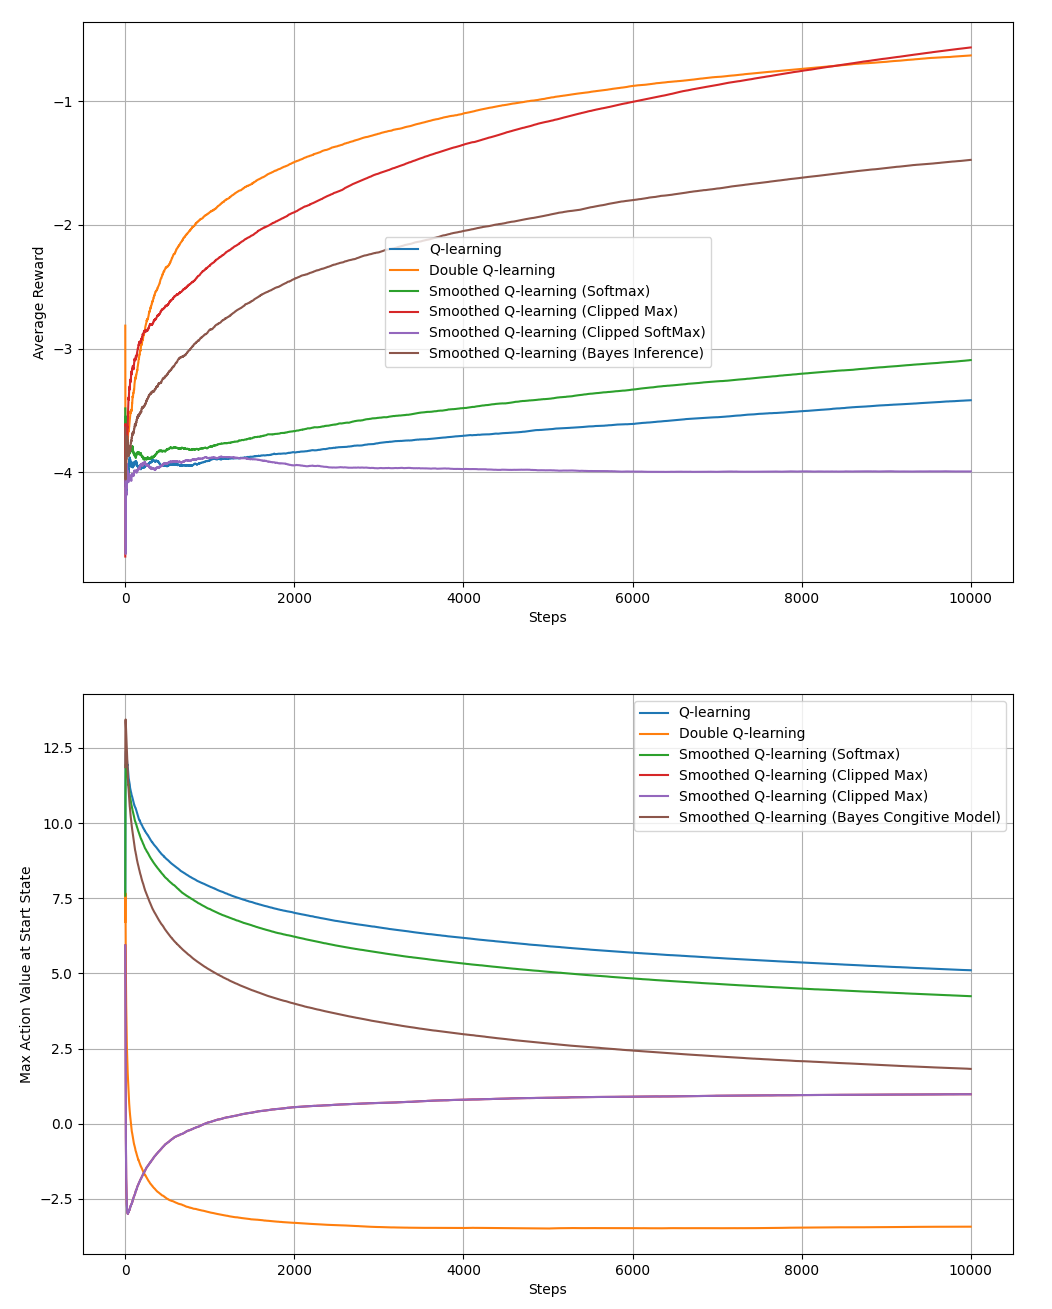
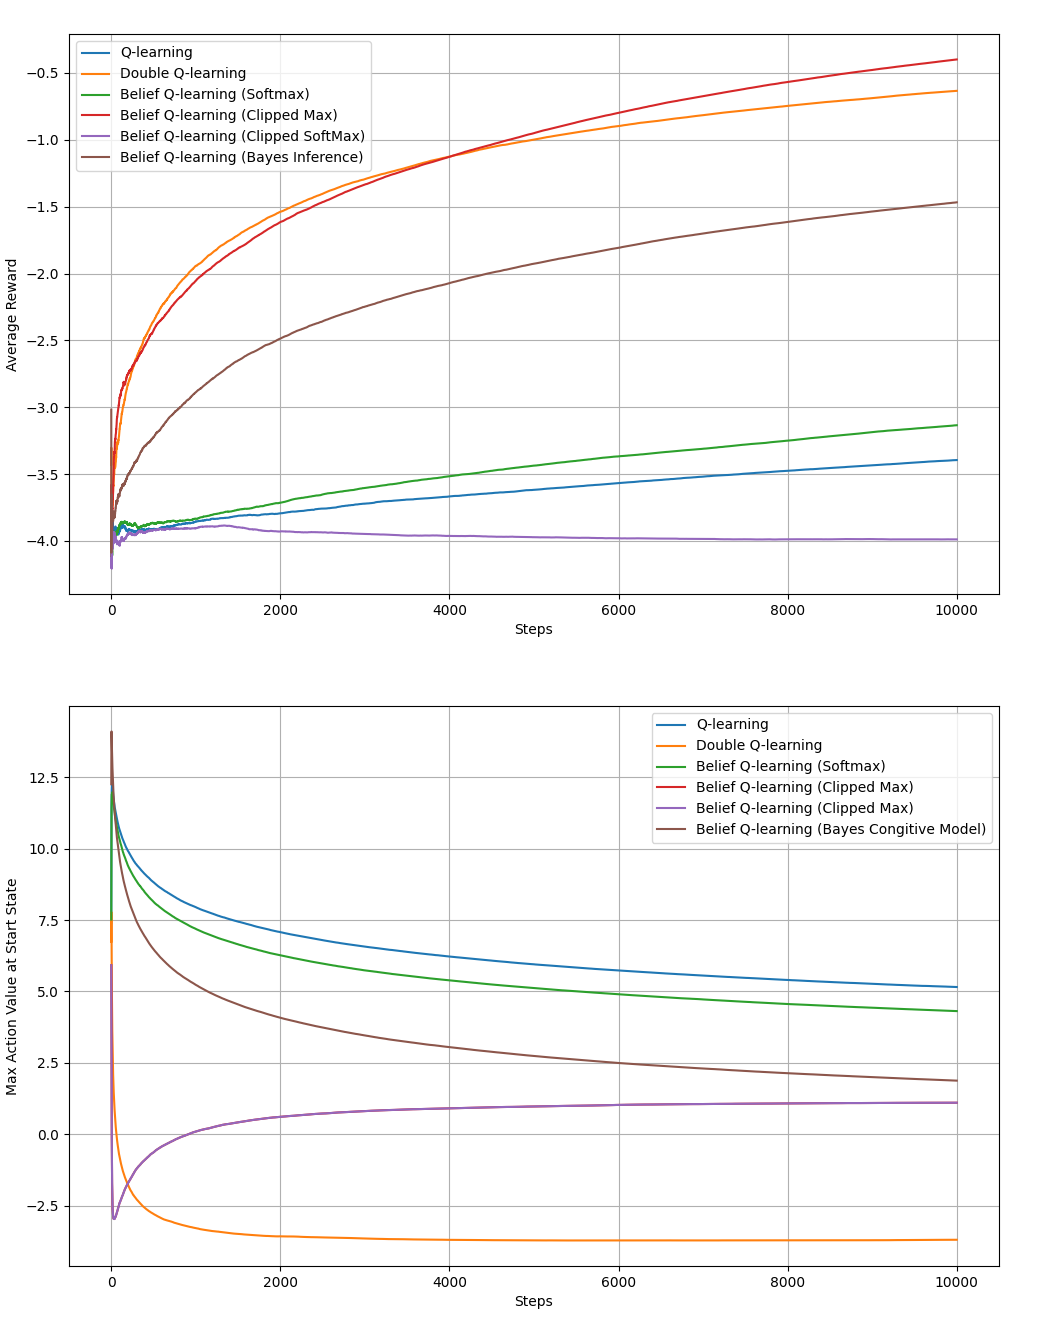
update

diff --git a/DQN_Exercise1/Belief_DQN.py b/DQN_Exercise1/Belief_DQN.py
@@ -7,10 +7,13 @@ import torch
 import torch.nn.functional as F
 import matplotlib.pyplot as plt
 import rl_utils
-from Qattention import MLPAttention
+# from Qattention import MLPAttention
 from BeliefQNetwork import BeliefQNetwork
+
+
 class ReplayBuffer:
     ''' 经验回放池 '''
+
     def __init__(self, capacity):
         self.buffer = collections.deque(maxlen=capacity)  # 队列,先进先出
 
@@ -24,9 +27,11 @@ class ReplayBuffer:
 
     def size(self):  # 目前buffer中数据的数量
         return len(self.buffer)
-    
+
+
 class Qnet(torch.nn.Module):
     ''' 只有一层隐藏层的Q网络 '''
+
     def __init__(self, state_dim, hidden_dim, action_dim):
         super(Qnet, self).__init__()
         self.fc1 = torch.nn.Linear(state_dim, hidden_dim)
@@ -35,12 +40,28 @@ class Qnet(torch.nn.Module):
     def forward(self, x):
         x = F.relu(self.fc1(x))  # 隐藏层使用ReLU激活函数
         return self.fc2(x)
-    
+
+
 class DQN:
     ''' DQN算法 '''
+
     def __init__(self, state_dim, hidden_dim, action_dim, learning_rate, gamma,
                  epsilon, target_update, device):
+
         self.action_dim = action_dim
+        self.device = device
+        self.gamma = gamma
+        self.epsilon = epsilon
+        self.target_update = target_update
+        self.count = 0
+
+        # self.q_net = BeliefQNetwork(state_dim, action_dim, hidden_dim).to(device)
+        # self.target_q_net = BeliefQNetwork(state_dim, action_dim, hidden_dim).to(device)
+
+        # self.optimizer = torch.optim.Adam(self.q_net.parameters(), lr=learning_rate)
+
+        # self.action_dim = action_dim
+
         self.q_net = Qnet(state_dim, hidden_dim,
                           self.action_dim).to(device)  # Q网络
         # 目标网络
@@ -49,14 +70,16 @@ class DQN:
         # 使用Adam优化器
         self.optimizer = torch.optim.Adam(self.q_net.parameters(),
                                           lr=learning_rate)
-        self.gamma = gamma  # 折扣因子
-        self.epsilon = epsilon  # epsilon-贪婪策略
-        self.target_update = target_update  # 目标网络更新频率
-        self.count = 0  # 计数器,记录更新次数
-        self.device = device
-        self.qattention = MLPAttention(state_dim, action_dim).to(self.device)
+
+        # self.gamma = gamma  # 折扣因子
+        # self.epsilon = epsilon  # epsilon-贪婪策略
+        # self.target_update = target_update  # 目标网络更新频率
+        # self.count = 0  # 计数器,记录更新次数
+        # self.device = device
+
+        self.qattention = BeliefQNetwork(state_dim, action_dim).to(self.device)
         self.qoptim = torch.optim.Adam(self.qattention.parameters(),
-                                          lr=0.0005)
+                                       lr=0.0005)
 
     def take_action(self, state):  # epsilon-贪婪策略采取动作
         if np.random.random() < self.epsilon:
@@ -85,7 +108,7 @@ class DQN:
         #     -1, 1)
         # q_targets = rewards + self.gamma * max_next_q_values * (1 - dones
         #                                                         )  # TD误差目标
-        
+
         average_next_q_value = self.qattention(next_states, q_values)[1] * next_q_values
         q_targets = rewards + self.gamma * torch.sum(average_next_q_value) * (1 - dones)
         dqn_loss = torch.mean(F.mse_loss(q_values, q_targets))  # 均方误差损失函数
@@ -99,7 +122,8 @@ class DQN:
             self.target_q_net.load_state_dict(
                 self.q_net.state_dict())  # 更新目标网络
         self.count += 1
-        
+
+
 lr = 2e-3
 num_episodes = 500
 hidden_dim = 128
@@ -109,7 +133,7 @@ target_update = 10
 buffer_size = 10000
 minimal_size = 500
 batch_size = 64
-device = torch.device("cuda") if torch.cuda.is_available() else torch.device(
+device = torch.device("mps") if torch.cuda.is_available() else torch.device(
     "cpu")
 
 env_name = 'CartPole-v0'
@@ -152,9 +176,9 @@ for i in range(2000):
             if (i_episode + 1) % 10 == 0:
                 pbar.set_postfix({
                     'episode':
-                    '%d' % (num_episodes / 10 * i + i_episode + 1),
+                        '%d' % (num_episodes / 10 * i + i_episode + 1),
                     'return':
-                    '%.3f' % np.mean(return_list[-10:])
+                        '%.3f' % np.mean(return_list[-10:])
                 })
             pbar.update(1)
 
@@ -162,12 +186,12 @@ episodes_list = list(range(len(return_list)))
 plt.plot(episodes_list, return_list)
 plt.xlabel('Episodes')
 plt.ylabel('Returns')
-plt.title('Smoothed DQN on {}'.format(env_name))
+plt.title('Belief DQN on {}'.format(env_name))
 plt.show()
 
 mv_return = rl_utils.moving_average(return_list, 9)
 plt.plot(episodes_list, mv_return)
 plt.xlabel('Episodes')
 plt.ylabel('Returns')
-plt.title('Smoothed DQN on {}'.format(env_name))
+plt.title('Belief DQN on {}'.format(env_name))
 plt.show()

diff --git a/DQN_Exercise1/BeliefQNetwork.py b/DQN_Exercise1/BeliefQNetwork.py
@@ -1,0 +1,59 @@
+import torch
+import torch.nn as nn
+import torch.nn.functional as F
+
+class MLP(nn.Module):
+    """ Multi-layer Perceptron for encoding state and other components. """
+    def __init__(self, input_dim, output_dim):
+        super(MLP, self).__init__()
+        self.layers = nn.Sequential(
+            nn.Linear(input_dim, 128),
+            nn.ReLU(),
+            nn.Linear(128, 128),
+            nn.ReLU(),
+            nn.Linear(128, output_dim)
+        )
+
+    def forward(self, x):
+        return self.layers(x)
+
+
+class BeliefQNetwork(nn.Module):
+    def __init__(self, state_dim, action_dim, hidden_dim=128):
+        super(BeliefQNetwork, self).__init__()
+        # Enhanced state and experience encoders using MLPs
+        self.state_encoder = MLP(state_dim, hidden_dim)
+        self.action_encoder = MLP(action_dim, hidden_dim)
+        self.reward_encoder = MLP(1, hidden_dim)
+        self.next_state_encoder = MLP(state_dim, hidden_dim)
+
+        # Attention mechanism with Multi-Head Attention (optional)
+        self.query_transform = nn.Linear(hidden_dim, hidden_dim)
+        self.key_transform = nn.Linear(hidden_dim * 4, hidden_dim)
+
+        # More complex action probability network
+        self.action_prob_network = MLP(hidden_dim * 2, action_dim)
+
+        # More complex Q-value prediction network
+        self.q_value_network = MLP(hidden_dim * 2, action_dim)
+
+    def forward(self, state, actions, rewards, next_states):
+        state_enc = self.state_encoder(state)
+        actions_enc = self.action_encoder(actions)
+        rewards_enc = self.reward_encoder(rewards)
+        next_states_enc = self.next_state_encoder(next_states)
+
+        experiences = torch.cat([state_enc, actions_enc, rewards_enc, next_states_enc], dim=-1)
+
+        query = self.query_transform(state_enc)
+        keys = self.key_transform(experiences)
+        attention_scores = torch.matmul(query, keys.T)
+        attention_weights = F.softmax(attention_scores, dim=-1)
+
+        context_vector = torch.sum(attention_weights.unsqueeze(-1) * experiences, dim=1)
+
+        combined_representation = torch.cat([context_vector, state_enc], dim=-1)
+        action_probs = F.softmax(self.action_prob_network(combined_representation), dim=-1)
+        q_values = self.q_value_network(combined_representation)
+
+        return action_probs, q_values

diff --git a/Gridworld/test6.py b/Gridworld/test6.py
@@ -214,7 +214,7 @@ def smoothed_Q_learning_with_Cognitive_model(env, num_episodes, max_steps, mu_pr
     return average_rewards, max_action_values
 
 
-num_experiments = 1000
+num_experiments = 2000
 num_episodes = 10000
 max_steps = 5
 
@@ -303,10 +303,10 @@ fig, axs = plt.subplots(2, figsize=(12, 16))
 
 axs[0].plot(Q_rewards, label="Q-learning")
 axs[0].plot(double_Q_rewards, label="Double Q-learning")
-axs[0].plot(smoothed_Q_softmax_rewards, label="Smoothed Q-learning (Softmax)")
-axs[0].plot(smoothed_Q_clipped_max_rewards, label="Smoothed Q-learning (Clipped Max)")
-axs[0].plot(smoothed_Q_clipped_softmax_rewards, label="Smoothed Q-learning (Clipped SoftMax)")
-axs[0].plot(smoothed_Q_congitive_model_rewards, label="Smoothed Q-learning (Bayes Inference)")
+axs[0].plot(smoothed_Q_softmax_rewards, label="Belief Q-learning (Softmax)")
+axs[0].plot(smoothed_Q_clipped_max_rewards, label="Belief Q-learning (Clipped Max)")
+axs[0].plot(smoothed_Q_clipped_softmax_rewards, label="Belief Q-learning (Clipped SoftMax)")
+axs[0].plot(smoothed_Q_congitive_model_rewards, label="Belief Q-learning (Bayes Inference)")
 axs[0].set_xlabel("Steps")
 axs[0].set_ylabel("Average Reward")
 axs[0].legend()
@@ -315,10 +315,10 @@ axs[0].grid(True)
 
 axs[1].plot(Q_max_action_values, label="Q-learning")
 axs[1].plot(double_Q_max_action_values, label="Double Q-learning")
-axs[1].plot(smoothed_Q_softmax_max_action_values, label="Smoothed Q-learning (Softmax)")
-axs[1].plot(smoothed_Q_clipped_max_max_action_values, label="Smoothed Q-learning (Clipped Max)")
-axs[1].plot(smoothed_Q_clipped_max_max_action_values, label="Smoothed Q-learning (Clipped Max)")
-axs[1].plot(smoothed_Q_congitive_model_max_action_values, label="Smoothed Q-learning (Bayes Congitive Model)")
+axs[1].plot(smoothed_Q_softmax_max_action_values, label="Belief Q-learning (Softmax)")
+axs[1].plot(smoothed_Q_clipped_max_max_action_values, label="Belief Q-learning (Clipped Max)")
+axs[1].plot(smoothed_Q_clipped_max_max_action_values, label="Belief Q-learning (Clipped Max)")
+axs[1].plot(smoothed_Q_congitive_model_max_action_values, label="Belief Q-learning (Bayes Congitive Model)")
 axs[1].set_xlabel("Steps")
 axs[1].set_ylabel("Max Action Value at Start State")
 axs[1].legend()
